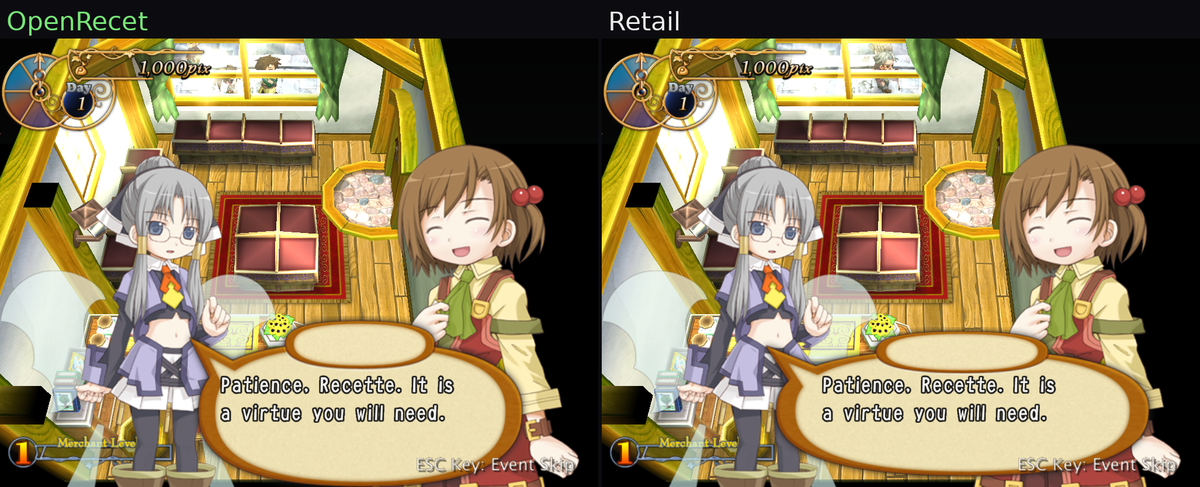
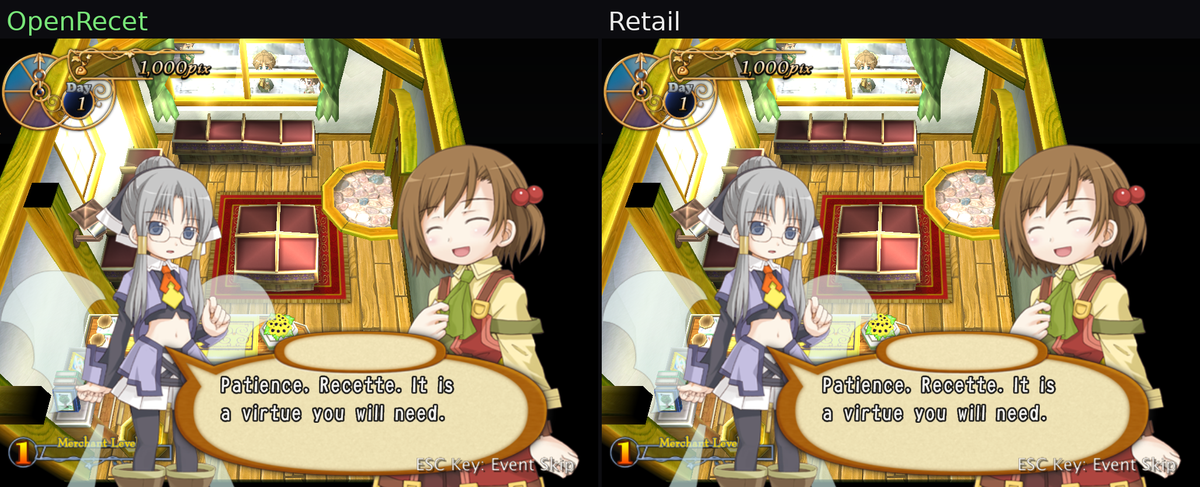
docs(front): bg-NPC + free-roam RNG 1:1 milestone; recompose dialogue hero; queue Tear phase
- FRONT: window NPCs (dialogue) + free-roam bg-NPC RNG desync both RESOLVED +
  user-confirmed; Tear (companion) phase = sprite-anim phase + wing particles is
  the TOP next free-roam target; faint ambient dots deferred (ref crops noted).
- confirmed-parity-ledger: new CONFIRMED-1:1 row for the background-window NPCs
  (1:1 in dialogue captures via the warmup re-seed AND staying 1:1 across a
  260-frame idle window after the §95 overlay fix); sharpened the Tear NOT-1:1
  row with the user's two-part characterization (anim phase + wing particles).
- README hero hero-iv1_2-dialogue recomposed from the 1:1 both-run (the
  back-window NPCs are now bit-1:1 in the shot); pinned that run_dir.

The house/sigh/iv2-gap heroes are unchanged (no phasepin in those scenarios; a
fully-1:1 house hero is gated on the deferred Tear phase).

diff --git a/docs/findings/confirmed-parity-ledger.md b/docs/findings/confirmed-parity-ledger.md
@@ -46,6 +46,7 @@
 | **Skip-prompt hand cursor** (ESC "skip this event?" choice box's bobbing hand; shared `FUN_00435747` via `title_save_dialog_cursor_*`) | **user-confirmed 1:1** ("the cursor is definitely 1:1"). Unified onto the one shared cursor (f9708c7); bob counter `b154` phase-pinned (`{phasepin}` zeroes it at `TEXT_ANIM_END`, cb4002c) so the `\|sin(b154·.1)\|·8` wobble lands bit-identically (hand-left 332==332 px). Unpinned the bob phase is §85 load-dependent (engine-quirks §100). | user (explicit) on the `intro-skip-prompt --target both` feed push | 2026-06-05 |
 | **LOAD GAME / continue slot picker** (the save-card grid: parchment cards, clock-dial panel, rotated day hand, day/gold digits, money banner, level badge, SCORE/LOOP/TIME, NO-DATA, scroll arrows + "LOAD GAME" banner; `FUN_0049b556` → `scene_title.c`) | **user-confirmed effectively 1:1 (1-px notice).** Was a placeholder text list; now the faithful render. `title-load-picker --target both` (fa7c82 save): slide-in frame **0/786432** diff px, settled frames **1 px** (max Δ20 — sub-pixel on the clock-dial hand). Card text scale 0.8 vs slot#/NO-DATA 1.0 (user spotted the size gap pre-fix); brightness/scale constants objdump-recovered (engine-quirks §101). | user ("looks good… effectively 1:1 with the 1px notice") on the `title-load-picker` retail\|port\|white-diff feed push | 2026-06-05 |
 | **Title menu items** (the `fuki.tga` menu options: selected-item pulse + unselected greys; `FUN_0049c644` → `scene_title.c`) | **user-confirmed 1:1.** Selected item pulses bit-identically (`0x828282`→`0xb8b8b8` f30→f60); unselected greys were too bright (`0x95`=149) and are now `0x5f`=95 = retail. After fix the port is **pixel-identical** to retail (0 px diff >10; was 13098 px in the menu region). Root-caused via the render_quad flow-trace (diffuse `0xff5f5f5f`) + the engine denormal `1.33123e-43`=bits 95 (engine-quirks §97). | user ("confirmed 1:1") on the `boot-idle` before/after/retail/diff feed push | 2026-06-05 |
+| **Background-window NPCs** (the 6 townsfolk drifting past the shop's back window; `scene1_bg_npc`, `FUN_0046f2a3`/`621`/`648`/`737`) | **user-confirmed 1:1** ("that 1:1, nice!"). The 6 NPCs ride the **shared LCG**, so their drift state is load-RNG-history-dependent. (1) **In dialogue captures:** `{phasepin}` re-runs the warmup from a canonical seed (19937) on BOTH sides — each runs its own spawn/drift code, so a match *proves the logic 1:1*; every iv1_2 line's window band 2478px@mean0.76 → **424px@mean0.00** (≤1 LSB). (2) **In live free-roam:** they now **STAY** 1:1 — `house-idle-npc-drift` (one pin then free-run) holds **≤69px@mean0.00 across +2…+260** after the §95 dev-overlay RNG fix (was desyncing at +100). | user (explicit, feed before/after) + `intro-dialogue-lines` + `house-idle-npc-drift --target both` | 2026-06-05 |
 
 ## CONFIRMED NOT 1:1 (human-flagged — do NOT hand-wave)
 
@@ -58,7 +59,7 @@
 | **iv1_2 opening: Tear angry pose + radial-lines** | same window — retail plays Tear an angry pose with a billboard radial-lines (manga anger-marks) effect; port absent. | user-flagged 2026-06-02. Same `intro-iv2-gap` zoom frames both Recette + Tear. opening-prologue.md #4(b). |
 | **Dialogue text fade-to-transparent on dismiss** | when a line is dismissed retail fades the glyph text out as the box closes; the port pops it off. | user-flagged 2026-06-02. `intro-iv2-gap` captures the dismiss window. Box-close alpha on the text in `FUN_0046c9a2`. opening-prologue.md #5. |
 | **Recette idle animation phase** | idle pose **slightly off** at `house-movement` **cap_00 (first frame, idle free-roam)** — while her **walking is confirmed 1:1** (cap_01/02). **Narrowed 2026-06-04:** `phase_probe house-idle --window 120,80` shows the player idle anim cycle (`p.aframe/counter/anim/oct`) **machine-verified bit-exact** vs retail once `{phasepin}` normalizes the origin (now covers actor 0) → the idle anim *law* is 1:1; the visible cap_00 diff is the load-dependent phase ORIGIN (harness-normalized, not re-seeded per the shipped game), **plus** a separate idle-only RNG over-consumption (see Deferred) that can shift idle sparkle/effect phase. | user, 2026-06-01. NOT position (pure-black once moving) and NOT an anim-counter logic bug. Chase the visible residual via the idle-RNG gate + a phasepin'd idle pixel-diff; do NOT hand-wave as jitter. ([[project_next_char_controller]]) |
-| **Tear (companion) appearance** | "slightly off" — a **persistent** known issue. **NOT isolated**: could be position OR animation phase; the wing-flap not being exactly 1:1 per frame also adds comparison noise. | NOT jitter to dismiss. Do NOT assert it's "position." Investigate closely **later, once everything else is spot on** (user, 2026-06-01). It's the suspected reason b1acf7c's sprite Z occluded her glow, but the exact cause isn't pinned. ([[project_next_char_controller]]) |
+| **Tear (companion) appearance** | "slightly off" — a **persistent** known issue. **NARROWED 2026-06-05 (user-confirmed):** with the bg-NPCs and free-roam RNG now 1:1, Tear is the **lone remaining free-roam sprite delta** and the user confirms it is **TWO things: the sprite-animation phase AND the wing particles** ("you can see both the sprite animation phase differs and the wing particles"). Drift bbox x[522-567] y[370-441] at `house-idle-npc-drift` cap_00, ~2000px@mean0.95, **present even +2 frames post-`{phasepin}`** (so it is NOT just the load-phase origin the pin zeroes — a genuine spring-follow-position and/or wing-flap+particle phase divergence). | **TOP next free-roam target** (user, 2026-06-05: "we should probably look into tear phase"). Do NOT assert it's purely "position" — it's anim-phase + particles. Needs a dedicated companion-controller investigation like the bg-NPC one. ([[project_next_char_controller]]) |
 | ~~**Recette RENDERED walk cell**~~ — **RESOLVED → 1:1, 2026-06-04** | was flagged as a "different walk cell" on ~18% of frames; root cause was a **capture-tooling off-by-one** (Frida watch read one sim-tick before the render, mislabeling screenshots), NOT an engine divergence. Fixed (715b74c) + user-confirmed 1:1. See the CONFIRMED-1:1 row above + `scene1-recette-walk-cell.md`. | resolved 2026-06-04 |
 | **Foot-dust position/phase** | diverges from retail | likely free-roam RNG-stream completeness ([[scene1-rng-stream-parity]]) — but treat as a real structural gap to CLOSE, not "just RNG" |
 | ~~**Ambient motes** (`FUN_0046f648`)~~ — **RECLASSIFIED 2026-06-02** | this was never ambient motes: it is the **background-window NPC system** (`scene1_bg_npc`, the townsfolk drifting past the back window). Sim + dark contact-shadow were ported 2026-06-01; the **bright character sprite** (`FUN_0046f737`) landed 2026-06-02 and is **user-verified rendering** (in-game + feed). See [[scene1-bg-npc]]. Residual: exact anim-phase/identity vs retail (deferred), and the genuinely-faint "tiny dots" that may be a *real* separate ambient effect not yet found (do NOT re-conflate). |

diff --git a/docs/STATUS.md b/docs/STATUS.md
@@ -215,17 +215,40 @@ Registry: `port-debt.md` / `.json`; retirement plan: `plans/un-mvp-structural-pa
        `{phasepin}` zeros the countdowns on BOTH sides so the capture is un-shaken.
        cap_44 standees all 4 at **delta 0.0** px; full-frame 89080px→5596px. The 5.6k
        residual = the **window NPCs** (item #2, top-center `chr10`), not the standees.
-     - **MILESTONE (user-confirmed 2026-06-05, post-shake-fix):** across the 46-panel
-       intro-dialogue-lines both-run, **everything is 1:1 EXCEPT** (a) the window NPCs and
-       (b) faint ambient particle dots. Those two + the book-frame note below are the only
-       remaining intro-dialogue deltas. **NEXT SESSION: investigate the window NPCs (item
-       #2).**
-     - **iv1_2 lines 16-45 ~3-6k px = the WINDOW NPCs** (item #2 below) — RNG/logic, not
-       phase (phasepin didn't move them). User-confirmed "the ~6k diff on most frames is
-       the npcs at the window." **TOP next-session target.**
-     - **faint ambient particle dots** — minor remaining delta (user-flagged 2026-06-05);
-       the sparse drifting dots, likely an RNG/phase or a still-unported ambient emitter.
-       Low priority; chase after the window NPCs.
+     - ~~**iv1_2 window NPCs.**~~ **RESOLVED 2026-06-05 (user-confirmed 1:1, commit
+       e107a2c).** The 6 background-window NPCs ride the shared LCG, so their drift state
+       at a captured line depended on the load-dependent intro RNG history → different
+       drift positions port↔retail despite bit-faithful spawn/drift logic. Fixed by
+       extending **`{phasepin}` to re-run the bg-NPC warmup from a canonical seed (19937)
+       on BOTH sides** (port `scene1_bg_npc_phasepin` + retail `FUN_0046f621` onEnter
+       seed/gate force). Every iv1_2 line's window band **2478px@mean0.76 → 424px@mean0.00**
+       (≤1 LSB), bit-stable across all 30 lines. Doubles as the parity test (each side
+       runs its own spawn code from the same seed) ⇒ bg-NPC logic confirmed 1:1. Dialogue
+       README hero recomposed from the 1:1 run.
+     - ~~**Free-roam bg-NPC RNG desync** (do they STAY 1:1 after the dialogue?).~~
+       **RESOLVED 2026-06-05 (user-confirmed, commit 4fce60b).** `house-idle-npc-drift`
+       (one `{phasepin}` then free-run) showed the NPCs bit-locked through +50 then
+       diverging at +100 — "logic exact, RNG origin thrown off by a call-count diff" (the
+       desync is immediate at the LCG level; the visible jump is the first *respawn* off
+       the desynced stream). Drilled via `rng_callsites`: retail consumes caller
+       **`0x443606` once on EVERY idle frame** (the §95 dev-overlay LCG step), which the
+       port was **wrongly movement-gating** (§95 REVISED 2026-06-04 — a measurement
+       *confounded by the then-un-pinned bg-NPCs*). Decompile (`442cef.c LAB_004435f7`) is
+       unconditional. Reverted to unconditional ⇒ post-fix the NPCs stay bit-locked across
+       a 260-frame idle window (≤69px@mean0.00 at +2…+260). engine-quirks §95 re-corrected.
+     - **Tear (companion) phase — DEFERRED, NEXT free-roam target (user-confirmed
+       2026-06-05).** In free-roam idle the lone remaining sprite delta is the companion:
+       **both the sprite-animation phase AND the wing particles differ** (drift bbox
+       x[522-567] y[370-441] at cap_00, ~2000px@mean0.95, present even +2 post-pin). This
+       is the deferred **Tear-position (spring-follow) + wing-flap/particle phase** item
+       ([[project_confirmed_parity_ledger]] "Tear pos CONFIRMED off"). The `{phasepin}`
+       zeroes the companion anim counters but not this residual ⇒ a genuine companion
+       controller/phase investigation (like the bg-NPC one). **TOP next-session target.**
+     - **faint ambient particle dots** — DEFERRED (user-flagged, with ref crops 2026-06-05:
+       cap_03 box 239,884,253,901 + cap_02 box 241,966,256,984 in the
+       house-idle-npc-drift 190341Z montage). Very tiny/faint drifting dots; a
+       still-unported ambient emitter (the §95-class below-band ~1.6k px residual,
+       unaffected by the bg-NPC/overlay fixes). Low priority; chase after Tear.
      - **next-line "book" arrow = WRONG ANIM FRAME on iv1_2 lines 17/22/29/35/**41**
        — DEFERRED (user, "note it down for later", flagged again 2026-06-05 w/ per-line
        crops cap_17/22/29/35/41).** Port bug: `scene1_dialogue_draw.c` draws it from a

diff --git a/docs/FRONT.md b/docs/FRONT.md
@@ -189,17 +189,40 @@
        `{phasepin}` zeros the countdowns on BOTH sides so the capture is un-shaken.
        cap_44 standees all 4 at **delta 0.0** px; full-frame 89080px→5596px. The 5.6k
        residual = the **window NPCs** (item #2, top-center `chr10`), not the standees.
-     - **MILESTONE (user-confirmed 2026-06-05, post-shake-fix):** across the 46-panel
-       intro-dialogue-lines both-run, **everything is 1:1 EXCEPT** (a) the window NPCs and
-       (b) faint ambient particle dots. Those two + the book-frame note below are the only
-       remaining intro-dialogue deltas. **NEXT SESSION: investigate the window NPCs (item
-       #2).**
-     - **iv1_2 lines 16-45 ~3-6k px = the WINDOW NPCs** (item #2 below) — RNG/logic, not
-       phase (phasepin didn't move them). User-confirmed "the ~6k diff on most frames is
-       the npcs at the window." **TOP next-session target.**
-     - **faint ambient particle dots** — minor remaining delta (user-flagged 2026-06-05);
-       the sparse drifting dots, likely an RNG/phase or a still-unported ambient emitter.
-       Low priority; chase after the window NPCs.
+     - ~~**iv1_2 window NPCs.**~~ **RESOLVED 2026-06-05 (user-confirmed 1:1, commit
+       e107a2c).** The 6 background-window NPCs ride the shared LCG, so their drift state
+       at a captured line depended on the load-dependent intro RNG history → different
+       drift positions port↔retail despite bit-faithful spawn/drift logic. Fixed by
+       extending **`{phasepin}` to re-run the bg-NPC warmup from a canonical seed (19937)
+       on BOTH sides** (port `scene1_bg_npc_phasepin` + retail `FUN_0046f621` onEnter
+       seed/gate force). Every iv1_2 line's window band **2478px@mean0.76 → 424px@mean0.00**
+       (≤1 LSB), bit-stable across all 30 lines. Doubles as the parity test (each side
+       runs its own spawn code from the same seed) ⇒ bg-NPC logic confirmed 1:1. Dialogue
+       README hero recomposed from the 1:1 run.
+     - ~~**Free-roam bg-NPC RNG desync** (do they STAY 1:1 after the dialogue?).~~
+       **RESOLVED 2026-06-05 (user-confirmed, commit 4fce60b).** `house-idle-npc-drift`
+       (one `{phasepin}` then free-run) showed the NPCs bit-locked through +50 then
+       diverging at +100 — "logic exact, RNG origin thrown off by a call-count diff" (the
+       desync is immediate at the LCG level; the visible jump is the first *respawn* off
+       the desynced stream). Drilled via `rng_callsites`: retail consumes caller
+       **`0x443606` once on EVERY idle frame** (the §95 dev-overlay LCG step), which the
+       port was **wrongly movement-gating** (§95 REVISED 2026-06-04 — a measurement
+       *confounded by the then-un-pinned bg-NPCs*). Decompile (`442cef.c LAB_004435f7`) is
+       unconditional. Reverted to unconditional ⇒ post-fix the NPCs stay bit-locked across
+       a 260-frame idle window (≤69px@mean0.00 at +2…+260). engine-quirks §95 re-corrected.
+     - **Tear (companion) phase — DEFERRED, NEXT free-roam target (user-confirmed
+       2026-06-05).** In free-roam idle the lone remaining sprite delta is the companion:
+       **both the sprite-animation phase AND the wing particles differ** (drift bbox
+       x[522-567] y[370-441] at cap_00, ~2000px@mean0.95, present even +2 post-pin). This
+       is the deferred **Tear-position (spring-follow) + wing-flap/particle phase** item
+       ([[project_confirmed_parity_ledger]] "Tear pos CONFIRMED off"). The `{phasepin}`
+       zeroes the companion anim counters but not this residual ⇒ a genuine companion
+       controller/phase investigation (like the bg-NPC one). **TOP next-session target.**
+     - **faint ambient particle dots** — DEFERRED (user-flagged, with ref crops 2026-06-05:
+       cap_03 box 239,884,253,901 + cap_02 box 241,966,256,984 in the
+       house-idle-npc-drift 190341Z montage). Very tiny/faint drifting dots; a
+       still-unported ambient emitter (the §95-class below-band ~1.6k px residual,
+       unaffected by the bg-NPC/overlay fixes). Low priority; chase after Tear.
      - **next-line "book" arrow = WRONG ANIM FRAME on iv1_2 lines 17/22/29/35/**41**
        — DEFERRED (user, "note it down for later", flagged again 2026-06-05 w/ per-line
        crops cap_17/22/29/35/41).** Port bug: `scene1_dialogue_draw.c` draws it from a
